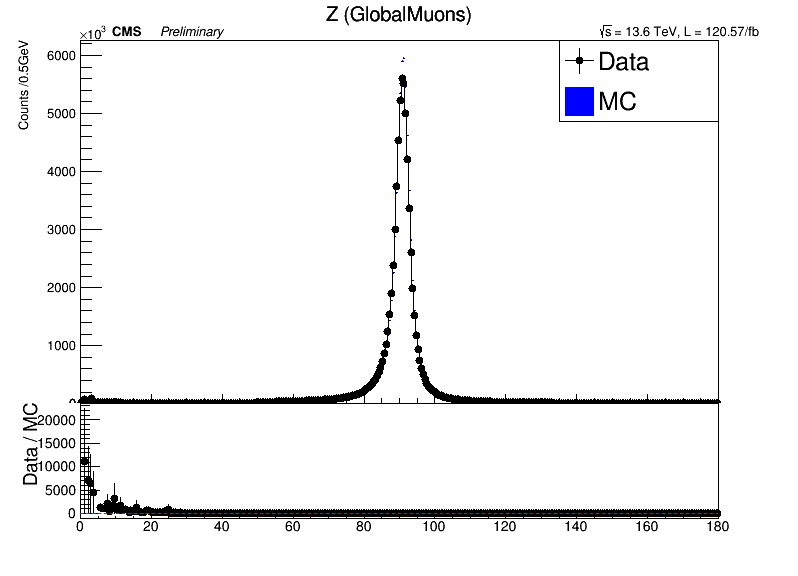
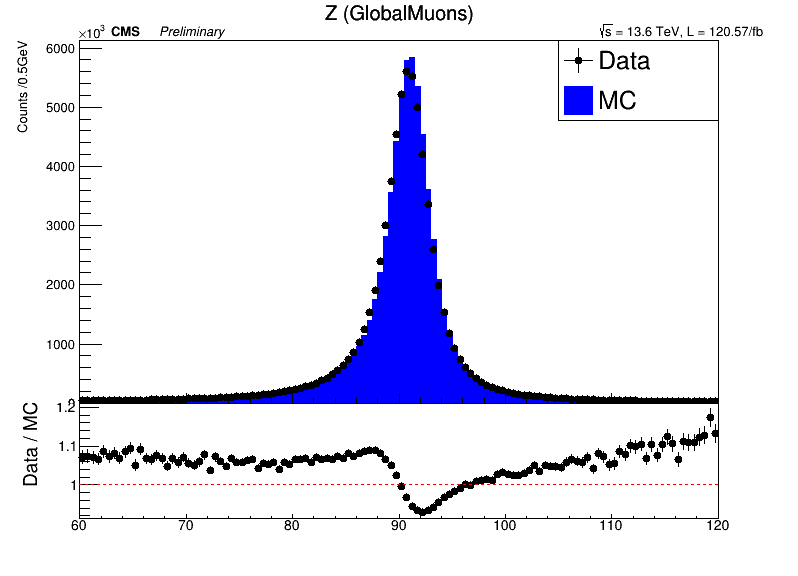
data/mc hist has been edited

diff --git a/mc/drawDataMCHistograms.C b/mc/drawDataMCHistograms.C
@@ -56,8 +56,8 @@ void drawHistogramsForAllMuonTypes(const char* dataFilename, const char* mcFilen
         return;
     }
 
-    TH1F* dataHist = new TH1F("dataHist", Form("%s;M_{\\mu\\mu} (GeV);Counts /0.5GeV", histTitle), 360, 0, 180);
-    TH1F* mcHist = new TH1F("mcHist", Form("%s;M_{\\mu\\mu} (GeV);Counts /0.5GeV", histTitle), 360, 0, 180);
+    TH1F* dataHist = new TH1F("dataHist", Form("%s;M_{\\mu\\mu} (GeV);Counts /0.5GeV", histTitle), 120, 60, 120);
+    TH1F* mcHist = new TH1F("mcHist", Form("%s;M_{\\mu\\mu} (GeV);Counts /0.5GeV", histTitle), 120, 60, 120);
 
     double zBosonMass;
     dataTree->SetBranchAddress(dataBranchName, &zBosonMass);
@@ -88,20 +88,18 @@ void drawHistogramsForAllMuonTypes(const char* dataFilename, const char* mcFilen
     dataHist->SetMarkerStyle(20);
     dataHist->SetMarkerColor(kBlack);
     dataHist->SetLineColor(kBlack);
-    mcHist->SetFillColor(kBlue);
-    mcHist->SetLineColor(kBlue);
-    mcHist->SetFillStyle(1001); // MC 히스토그램 색 채우기
+    mcHist->SetFillColor(kBlue);       
+    mcHist->SetLineColor(kBlue);        
 
-    THStack* stack = new THStack("stack", Form("%s;M_{\\mu\\mu} (GeV);Counts /0.5GeV", histTitle));
-    stack->Add(mcHist);
-    stack->Add(dataHist);
 
     TPad* pad1 = new TPad("pad1", "pad1", 0, 0.3, 1, 1.0);
     pad1->SetBottomMargin(0);
     pad1->Draw();
     pad1->cd();
-    stack->Draw("nostack");
-    dataHist->Draw("E same");
+
+    
+    mcHist->Draw("HIST");               
+    dataHist->Draw("E same");           
 
     TLatex latex;
     latex.SetNDC();
@@ -111,11 +109,12 @@ void drawHistogramsForAllMuonTypes(const char* dataFilename, const char* mcFilen
     latex.SetTextFont(42); // normal font for "Preliminary"
     latex.DrawLatex(0.20, 0.91, "#it{Preliminary}");
     latex.DrawLatex(0.75, 0.91, "#sqrt{s} = 13.6 TeV, L = 120.57/fb");
-
+    
     TLegend* legend = new TLegend(0.7, 0.7, 0.9, 0.9);
     legend->AddEntry(dataHist, "Data", "lep");
     legend->AddEntry(mcHist, "MC", "f");
     legend->Draw();
+
 
     canvas->cd();
     TPad* pad2 = new TPad("pad2", "pad2", 0, 0.05, 1, 0.3);
@@ -123,6 +122,7 @@ void drawHistogramsForAllMuonTypes(const char* dataFilename, const char* mcFilen
     pad2->SetBottomMargin(0.2);
     pad2->Draw();
     pad2->cd();
+
     
     TH1F* ratioHist = (TH1F*)dataHist->Clone("ratioHist");
     ratioHist->Divide(mcHist);
@@ -140,7 +140,9 @@ void drawHistogramsForAllMuonTypes(const char* dataFilename, const char* mcFilen
     ratioHist->GetXaxis()->SetLabelFont(43);
     ratioHist->GetXaxis()->SetLabelSize(15);
     ratioHist->Draw("ep");
-    TLine* line = new TLine(0, 1, 180, 1);
+
+    
+    TLine *line = new TLine(60, 1, 120, 1);
     line->SetLineColor(kRed);
     line->SetLineStyle(2);
     line->Draw();
@@ -149,11 +151,9 @@ void drawHistogramsForAllMuonTypes(const char* dataFilename, const char* mcFilen
 
     delete dataHist;
     delete mcHist;
-    delete stack;
     delete legend;
     delete pad1;
     delete pad2;
-    delete line;
     delete canvas;
 
     dataFile->Close();
